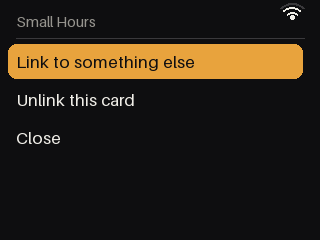
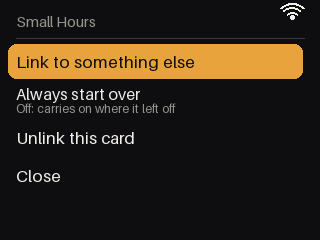
Let each card carry on where it left off or always start over
When linking a card, the player now asks what happens when the card goes
back in: carry on where it left off (the default) or always start over.
The choice can be changed later from the card menu's "Always start over"
item, and is kept per card in the card store. The user manual covers the
new step and menu item, with an updated menu picture.

diff --git a/docs/manual/index.html b/docs/manual/index.html
@@ -138,17 +138,19 @@
 <ol class="steps">
   <li>Put the blank card in the slot. The player asks what to link it to.</li>
   <li>Turn the knob to <strong>Album</strong>, <strong>Artist</strong> or <strong>List</strong> and push it.</li>
-  <li>Turn the knob to choose (albums are in A to Z order) and push it. The card is linked and starts playing straight away.</li>
+  <li>Turn the knob to choose (albums are in A to Z order) and push it.</li>
+  <li>Choose what happens when the card goes back in: <strong>Carry on where it left off</strong> (the usual choice, already highlighted) or <strong>Always start over</strong>. Push the knob. The card is linked and starts playing straight away.</li>
 </ol>
 <div class="screens">
   <figure><div class="lcd"><img src="new-card.png" width="320" height="240" alt="Screen: Link this card to; Album, 7 albums; Artist, 5 artists"></div><figcaption>1. A new card in the slot.</figcaption></figure>
   <figure><div class="lcd"><img src="choose-album.png" width="320" height="240" alt="Screen: Choose an album for this card, with Small Hours by Mika Tane highlighted"></div><figcaption>2. Choosing an album. The bar on the right shows where you are in a long list.</figcaption></figure>
   <figure><div class="lcd"><img src="choose-artist.png" width="320" height="240" alt="Screen: Choose an artist for this card, listing artists with their album and track counts"></div><figcaption>Or choosing an artist.</figcaption></figure>
+  <figure><div class="lcd"><img src="link-start.png" width="320" height="240" alt="Screen: When the card goes back in; Carry on where it left off, highlighted; Always start over"></div><figcaption>3. Where the card starts next time.</figcaption></figure>
 </div>
 <p>Press back at any step to go back one screen. Cards can also be linked from the <a href="#remote">web remote</a>.</p>
 
 <h2 id="playing">Playing</h2>
-<p>Put a linked card in the slot and it plays from where that card last stopped. Each card remembers its own place, so you can swap between albums and pick each one up again.</p>
+<p>Put a linked card in the slot and it plays from where that card last stopped. Each card remembers its own place, so you can swap between albums and pick each one up again. A card set to <strong>Always start over</strong> plays from the first track every time instead. Two cards linked to the same music can be set differently.</p>
 <div class="screens">
   <figure><div class="lcd"><img src="playing.png" width="320" height="240" alt="Now playing screen: cover, track 0300, album Small Hours, artist Mika Tane, a progress bar, 0:04 of 0:20, track 1 of 3"></div><figcaption>Now playing: cover, track, album, artist, time and which track of how many.</figcaption></figure>
   <figure><div class="lcd"><img src="volume.png" width="320" height="240" alt="Now playing screen with a Volume bar at 37"></div><figcaption>Turning the knob shows the volume for a moment.</figcaption></figure>
@@ -187,11 +189,12 @@
     <p>With the card in the slot, <strong>hold the knob</strong> for the card menu:</p>
     <ul>
       <li><strong>Link to something else</strong> takes you through the same steps as a new card.</li>
+      <li><strong>Always start over</strong> switches between <em>On</em> (the card always plays from the first track) and <em>Off</em> (it carries on where it left off). It changes only this card.</li>
       <li><strong>Unlink this card</strong> makes it blank again.</li>
       <li><strong>Close</strong>, or press back, leaves the menu.</li>
     </ul>
   </div>
-  <figure><div class="lcd"><img src="menu.png" width="320" height="240" alt="Card menu titled Small Hours: Link to something else, Unlink this card, Close"></div></figure>
+  <figure><div class="lcd"><img src="menu.png" width="320" height="240" alt="Card menu titled Small Hours: Link to something else, Always start over, Unlink this card, Close"></div></figure>
 </div>
 
 <h2 id="settings">Wi-Fi and settings</h2>
@@ -406,7 +409,7 @@
 <table>
   <tr><th>You do</th><th>It does</th></tr>
   <tr><td>Insert a new card</td><td>Asks what to link it to, then plays it.</td></tr>
-  <tr><td>Insert a linked card</td><td>Plays from where that card stopped.</td></tr>
+  <tr><td>Insert a linked card</td><td>Plays from where that card stopped, or from the beginning if the card is set to.</td></tr>
   <tr><td>Remove the card</td><td>Pauses and remembers the place.</td></tr>
   <tr><td>Turn the knob</td><td>Volume, or moves through a list.</td></tr>
   <tr><td>Push the knob</td><td>Pause / resume, or choose.</td></tr>

diff --git a/player/app.py b/player/app.py
@@ -25,7 +25,11 @@ SCAN_GAP = 1.0
 SCAN_LABEL_SECONDS = 0.8
 MISSING = "The music linked to this card is missing."
 TEST_SCREEN_SECONDS = 5.0
-MENU_ITEMS = ("Link to something else", "Unlink this card", "Close")
+MENU_ITEMS = ("Link to something else", "Always start over", "Unlink this card", "Close")
+START_CHOICES = (  # the question after choosing what a card plays: index 1 means always from the beginning
+    ("Carry on where it left off", "Picks up at the same song and place"),
+    ("Always start over", "Plays from the first song every time"),
+)
 SETTINGS_ITEMS = ("Wi-Fi", "Volume limit", "Manage music", "About this player", "Restart the player", "Close")
 MANAGE_KINDS = (("album", "Albums"), ("artist", "Artists"), ("list", "Lists"), ("song", "All songs"))
 WIFI_ITEMS = ("Wi-Fi", "Connect to a new network", "Show web player", "Back")  # only Wi-Fi and Back while it is off
@@ -42,6 +46,7 @@ class Mode(Enum):
     PLAYING = auto()  # linked card in the slot (playing, paused or finished)
     UNLINKED = auto()  # card in the slot with nothing to play
     LINKING = auto()  # choosing what the card plays: first the kind, then the album, artist or list
+    LINK_START = auto()  # then whether it carries on where it stopped or always starts from the beginning
     MENU = auto()
     TRACKS = auto()  # the tracks of what is playing, to jump to one
     TRANSFER = auto()  # music partition handed to the computer
@@ -61,7 +66,7 @@ class Mode(Enum):
 
 MANAGE_MODES = (Mode.MANAGE, Mode.MANAGE_LIST, Mode.MANAGE_ITEM, Mode.MANAGE_CONFIRM)
 SETTINGS_MODES = (Mode.SETTINGS, Mode.WIFI, Mode.WIFI_SETUP, Mode.VOLUME_LIMIT, Mode.ABOUT) + MANAGE_MODES
-LIST_MODES = (Mode.LINKING, Mode.MENU, Mode.TRACKS, Mode.SETTINGS, Mode.WIFI, Mode.VOLUME_LIMIT) + MANAGE_MODES
+LIST_MODES = (Mode.LINKING, Mode.LINK_START, Mode.MENU, Mode.TRACKS, Mode.SETTINGS, Mode.WIFI, Mode.VOLUME_LIMIT) + MANAGE_MODES
 
 
 class NullStorage:
@@ -89,6 +94,7 @@ class App:
         self.card: str | None = None
         self.album: Item | None = None  # what is playing: an album, an artist or a list
         self.link_kind: str | None = None  # while linking: the kind being browsed, None while choosing the kind
+        self._link_to: Item | None = None  # while asking where it starts: what the card is being linked to
         self.status = Status()
         self.selected = 0
         self.note = ""
@@ -175,6 +181,7 @@ class App:
         if self.mode in LIST_MODES:
             count = {
                 Mode.LINKING: lambda: len(self._link_choices()),
+                Mode.LINK_START: lambda: len(START_CHOICES),
                 Mode.MENU: lambda: len(MENU_ITEMS),
                 Mode.TRACKS: lambda: len(self.album.tracks),
                 Mode.SETTINGS: lambda: len(SETTINGS_ITEMS),
@@ -255,6 +262,10 @@ class App:
             self.link_kind = None
         if self.mode is Mode.LINKING:
             self.selected = min(self.selected, max(len(self._link_choices()) - 1, 0))
+        if self.mode is Mode.LINK_START:
+            self._link_to = self.library.get(self._link_to.key)
+            if self._link_to is None:  # what was being linked has been deleted: choose again
+                self._start_linking()
         if self.mode in MANAGE_MODES:
             self._manage_refresh()
         if self.album is None:
@@ -319,11 +330,16 @@ class App:
             if button == "knob" and self.link_kind is None:
                 self._browse(self._kinds()[self.selected])
             elif button == "knob":
-                self._link(self.library.of(self.link_kind)[self.selected])
+                self._ask_start(self.library.of(self.link_kind)[self.selected])
             elif button == "back" and self.link_kind is not None:
                 self._start_linking(self.link_kind)  # back to choosing the kind
             elif button == "back":
                 self.mode = Mode.PLAYING if self.album else Mode.UNLINKED
+        elif self.mode is Mode.LINK_START:
+            if button == "knob":
+                self._link(self._link_to, from_start=self.selected == 1)
+            elif button == "back":
+                self._browse(self.link_kind, self._link_to)  # back to the list, on what was chosen
         elif self.mode is Mode.UNLINKED:
             if button == "knob":
                 self._start_linking()
@@ -685,7 +701,7 @@ class App:
         if album is None:
             self.mode, self.note = Mode.UNLINKED, MISSING
             return
-        track, elapsed = self.store.resume_point(self.card)
+        track, elapsed = (0, 0.0) if self.store.from_start(self.card) else self.store.resume_point(self.card)
         if track >= len(album.tracks):
             track, elapsed = 0, 0.0
         self.remote = False
@@ -732,23 +748,40 @@ class App:
         self.link_kind = None
         self._open_list(Mode.LINKING, kinds.index(kind) if kind in kinds else 0)
 
-    def _browse(self, kind: str) -> None:
+    def _browse(self, kind: str, at: Item | None = None) -> None:
         items = self.library.of(kind)
+        at = at or self.album
         self.link_kind = kind
-        self._open_list(Mode.LINKING, items.index(self.album) if self.album in items else 0)
+        self._open_list(Mode.LINKING, items.index(at) if at in items else 0)
 
-    def _link(self, album: Item) -> None:
-        self.store.link(self.card, album.key)
+    def _ask_start(self, album: Item) -> None:
+        """Asks whether the card carries on where it stopped (chosen first, the default) or starts over."""
+        self._link_to = album
+        linked = self.store.album_for(self.card) is not None
+        self._open_list(Mode.LINK_START, 1 if linked and self.store.from_start(self.card) else 0)
+
+    def _link(self, album: Item, from_start: bool | None = None) -> None:
+        self.store.link(self.card, album.key, from_start)
+        self._link_to = None
         self.remote = False
         self._play(album)
 
     def _menu_choice(self, index: int) -> None:
-        if index == 0:
+        choice = MENU_ITEMS[index]
+        if choice == "Link to something else":
             self._start_linking()
-        elif index == 1:
+        elif choice == "Always start over":
+            self.store.set_from_start(self.card, not self.store.from_start(self.card))  # stays in the menu
+        elif choice == "Unlink this card":
             self._unlink()
         else:
             self.mode = Mode.PLAYING
+
+    def _menu_rows(self) -> list[tuple[str, str, str]]:
+        on = self.store.from_start(self.card)
+        subs = {"Always start over": "On: plays from the first song every time" if on else "Off: carries on where it left off"}
+        values = {"Always start over": "On" if on else "Off"}  # for the OLED, which shows no subtitles
+        return [(i, subs.get(i, ""), values.get(i, "")) for i in MENU_ITEMS]
 
     def _unlink(self) -> None:
         self.store.unlink(self.card)
@@ -909,8 +942,10 @@ class App:
                 rows = [(a.title, _count(len(a.tracks), "track")) for a in items]
             article = "an" if self.link_kind[0] == "a" else "a"
             return self.ui.list_screen(f"Choose {article} {self.link_kind} for this card", rows, self.selected)
+        if self.mode is Mode.LINK_START:
+            return self.ui.list_screen("When the card goes back in", list(START_CHOICES), self.selected)
         if self.mode is Mode.MENU:
-            return self.ui.list_screen(self.album.title, [(item, "") for item in MENU_ITEMS], self.selected)
+            return self.ui.list_screen(self.album.title, self._menu_rows(), self.selected)
         if self.mode is Mode.TRACKS:
             playing = self.status.track_index if self.status.state != "stop" else -1
             rows = []

diff --git a/tests/test_player.py b/tests/test_player.py
@@ -58,13 +58,19 @@ def rig(music, tmp_path):
     return app, send, clock, store, playback, storage, tmp_path / "state.json"
 
 
-def linked(rig, album_index=0):
+PER_ITEM = round(COUNTS_PER_REV * 15 / 360) + 1  # knob counts that move a list by one row
+
+
+def linked(rig, album_index=0, from_start=False):
     """Insert CARD and link it to an album through the UI."""
     app, send, *_ = rig
     send(ev.CardInserted(CARD), ev.Press("knob"))  # the first screen asks what kind; Album is first
-    per_item = round(COUNTS_PER_REV * 15 / 360) + 1
     for _ in range(album_index):
-        send(ev.Rotate(per_item), advance=0.5)
+        send(ev.Rotate(PER_ITEM), advance=0.5)
+    send(ev.Press("knob"))
+    assert app.mode is Mode.LINK_START and app.selected == 0  # carry on where it stopped comes first
+    if from_start:
+        send(ev.Rotate(PER_ITEM), advance=0.5)
     send(ev.Press("knob"))
     return app.library.albums[album_index]
 
@@ -217,7 +223,8 @@ def test_menu_unlink_and_relink(rig):
     assert app.mode is Mode.MENU
     send(ev.Press("back"))
     assert app.mode is Mode.PLAYING
-    send(ev.Press("knob_long"), ev.Rotate(11), ev.Press("knob"))  # "Unlink this card"
+    send(ev.Press("knob_long"), ev.Rotate(PER_ITEM), advance=0.5)
+    send(ev.Rotate(PER_ITEM), ev.Press("knob"))  # "Unlink this card"
     assert app.mode is Mode.UNLINKED and store.album_for(CARD) is None
     assert playback.status().state == "stop"
     send(ev.Press("knob"))
@@ -237,6 +244,63 @@ def test_relink_can_be_cancelled_without_interrupting(rig):
     assert app.mode is Mode.LINKING and app.link_kind is None
     send(ev.Press("back"))
     assert app.mode is Mode.PLAYING and app.album == album and app.status.state == "play"
+
+
+def test_card_linked_to_start_from_the_beginning(rig):
+    app, send, clock, store, *_ = rig
+    linked(rig, from_start=True)
+    assert store.from_start(CARD) and app.status.track_index == 0
+    send(ev.Press("next"), advance=7.0)
+    send(ev.CardRemoved(), ev.CardInserted(CARD))
+    assert (app.status.track_index, app.status.state) == (0, "play") and app.status.elapsed < 0.5
+    assert Store(rig[6]).from_start(CARD)  # saved
+
+
+def test_back_from_the_start_question_returns_to_the_list(rig):
+    app, send, clock, store, *_ = rig
+    send(ev.CardInserted(CARD), ev.Press("knob"), ev.Rotate(PER_ITEM), advance=0.5)
+    send(ev.Press("knob"))
+    assert app.mode is Mode.LINK_START and store.album_for(CARD) is None  # nothing linked yet
+    send(ev.Press("back"))
+    assert app.mode is Mode.LINKING and app.link_kind == "album" and app.selected == 1
+
+
+def test_menu_toggles_start_from_the_beginning(rig):
+    app, send, clock, store, *_ = rig
+    linked(rig)
+    send(ev.Press("next"), advance=4.0)
+    send(ev.Press("knob_long"), ev.Rotate(PER_ITEM), ev.Press("knob"))
+    assert app.mode is Mode.MENU and store.from_start(CARD)  # the menu stays open to show it is on
+    assert app._menu_rows()[1][2] == "On"
+    app.render(clock.t)
+    send(ev.Press("back"), ev.CardRemoved(), ev.CardInserted(CARD))
+    assert app.status.track_index == 0 and app.status.elapsed < 0.5
+    send(ev.Press("knob_long"), ev.Rotate(PER_ITEM), ev.Press("knob"))
+    assert not store.from_start(CARD)
+
+
+def test_cards_on_the_same_album_keep_their_own_choice(rig):
+    app, send, clock, store, *_ = rig
+    album = linked(rig, from_start=True)
+    send(ev.CardRemoved())
+    store.link(OTHER, album.key)
+    assert store.from_start(CARD) and not store.from_start(OTHER)
+    send(ev.CardInserted(OTHER), ev.Press("next"), advance=6.0)
+    send(ev.CardRemoved(), ev.CardInserted(OTHER))
+    assert app.status.track_index == 1  # OTHER carries on
+    send(ev.CardRemoved(), ev.CardInserted(CARD))
+    assert app.status.track_index == 0  # CARD starts over
+
+
+def test_relinking_offers_the_cards_current_choice_and_web_links_keep_it(rig):
+    app, send, clock, store, *_ = rig
+    linked(rig, from_start=True)
+    send(ev.Press("knob_long"), ev.Press("knob"), ev.Press("knob"), ev.Press("knob"))  # something else: an album
+    assert app.mode is Mode.LINK_START and app.selected == 1
+    send(ev.Press("knob"))
+    assert store.from_start(CARD)
+    send(ev.WebCommand("link_card", app.library.albums[2].key))
+    assert store.album_for(CARD) == app.library.albums[2].key and store.from_start(CARD)
 
 
 def test_missing_album(rig):
@@ -292,6 +356,8 @@ def test_every_screen_renders(rig):
     send(ev.Press("back"), ev.Rotate(-11), ev.Press("knob"))
     shot()  # linking: albums
     send(ev.Press("knob"))
+    shot()  # linking: where it starts next time
+    send(ev.Press("knob"))
     shot()  # now playing
     send(ev.Rotate(20))
     shot()  # volume overlay
@@ -301,7 +367,7 @@ def test_every_screen_renders(rig):
     shot()  # usb offer
     send(ev.Press("knob"))
     shot()  # transfer
-    assert len(seen) == 10
+    assert len(seen) == 11
 
 
 def test_transfer_can_be_ended_by_holding_the_knob(rig):
@@ -410,7 +476,8 @@ def test_card_links_to_a_list_from_the_device_and_resumes(tagged):
     send(ev.Rotate(per_item), advance=0.5)
     send(ev.Press("knob"))
     assert app.link_kind == "list"
-    send(ev.Press("knob"), advance=25.0)  # the first song is 20 seconds long
+    send(ev.Press("knob"))  # the list
+    send(ev.Press("knob"), advance=25.0)  # carry on where it stopped  # the first song is 20 seconds long
     assert store.album_for(CARD) == "From iTunes" and app.album.kind == "list"
     assert app.status.track_index == 1 and app.status.path == "From iTunes/Heroes.wav"
     assert app.snapshot()["details"] == "David Bowie · From iTunes"

diff --git a/player/cards.py b/player/cards.py
@@ -1,4 +1,5 @@
-"""Persistent state on the small data partition: card links, resume positions, volume and its limit,
+"""Persistent state on the small data partition: card links (each with its own choice of starting
+from the beginning or where it stopped), resume positions, volume and its limit,
 and whether Wi-Fi and the web remote are on.
 
 Every save is atomic (write temp, fsync, rename) so a power cut never corrupts it.
@@ -41,8 +42,27 @@ class Store:
         """Everything some card is linked to, whether or not that card is in the slot."""
         return sorted({c["album"] for c in self._cards.values()})
 
-    def link(self, uid: str, key: str) -> None:
+    def link(self, uid: str, key: str, from_start: bool | None = None) -> None:
+        """Links the card to key, forgetting its old place. from_start None keeps the card's current choice."""
+        if from_start is None:
+            from_start = self.from_start(uid)
         self._cards[uid] = {"album": key}  # the field keeps its old name so existing links still load
+        if from_start:
+            self._cards[uid]["from_start"] = True
+        self.save()
+
+    def from_start(self, uid: str) -> bool:
+        """Whether the card always plays from the beginning; by default it carries on where it stopped."""
+        return self._cards.get(uid, {}).get("from_start") is True
+
+    def set_from_start(self, uid: str, on: bool) -> None:
+        card = self._cards.get(uid)
+        if card is None:
+            return
+        if on:
+            card["from_start"] = True
+        else:
+            card.pop("from_start", None)
         self.save()
 
     def unlink(self, uid: str) -> None:

diff --git a/tests/test_wifi.py b/tests/test_wifi.py
@@ -201,7 +201,7 @@ def test_holding_the_knob_with_no_card_opens_settings(rig):
 
 def test_settings_are_not_the_card_menu(rig):
     app, send, *_ = rig
-    send(ev.CardInserted("04AA"), ev.Press("knob"), ev.Press("knob"))  # link the first album
+    send(ev.CardInserted("04AA"), ev.Press("knob"), ev.Press("knob"), ev.Press("knob"))  # link the first album
     send(ev.Press("knob_long"))
     assert app.mode is Mode.MENU
 
